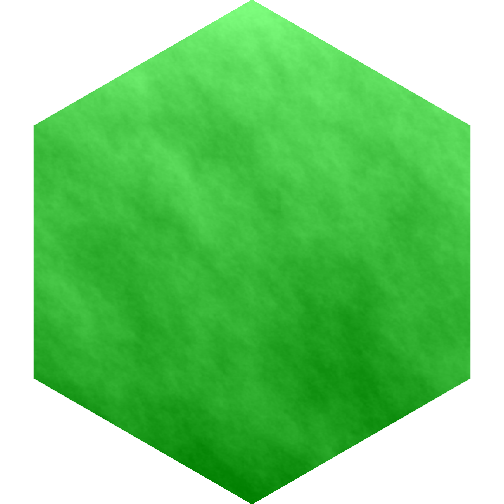
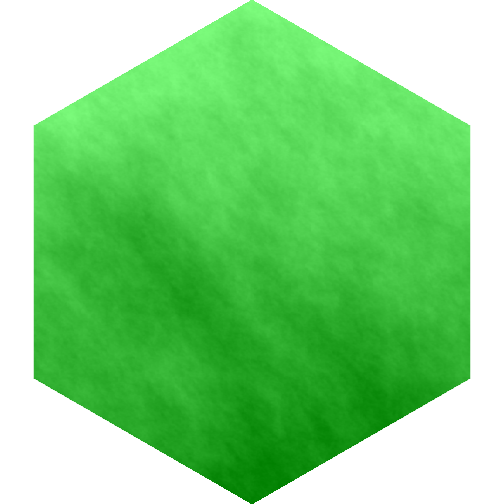
fix: Re-run README.Rmd

diff --git a/README.md b/README.md
@@ -54,7 +54,7 @@ y_hex <- 0.5 + 0.5 * sin(seq(2 * pi / 4, by = 2 * pi / 6, length.out = 6))
 
 
 ```r
-grid.pattern("ambient", x_hex, y_hex, fill = "green", fill2 = "blue", type = "worley")
+grid.pattern("ambient", x_hex, y_hex, fill = "green", fill2 = "blue")
 ```
 
 ![](man/figures/README-ambient-1.png)
@@ -82,9 +82,7 @@ logo_filename   <- system.file("img", "Rlogo.png" , package="png")
 grid.pattern("image", filename=logo_filename, type="tile")
 ```
 
-```
-## Error in if (scale != 1) {: argument is of length zero
-```
+![](man/figures/README-image-1.png)
 
 ```r
 grid.pattern("magick", x_hex, y_hex, type="octagons", fill="blue", scale=2)
